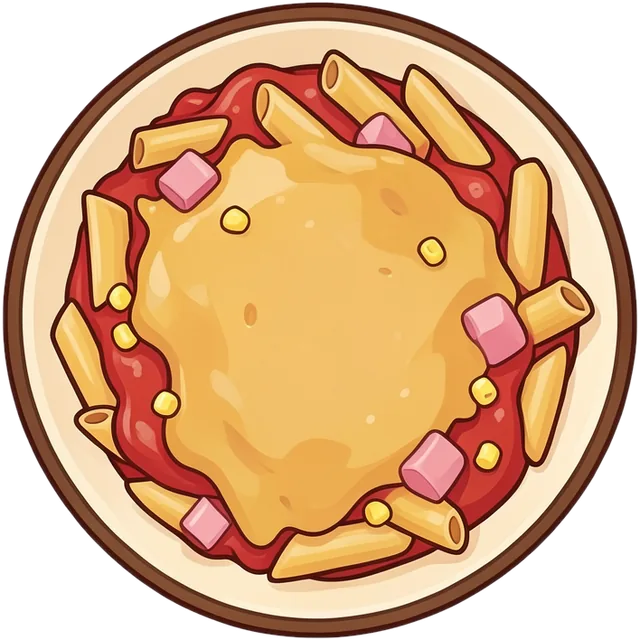
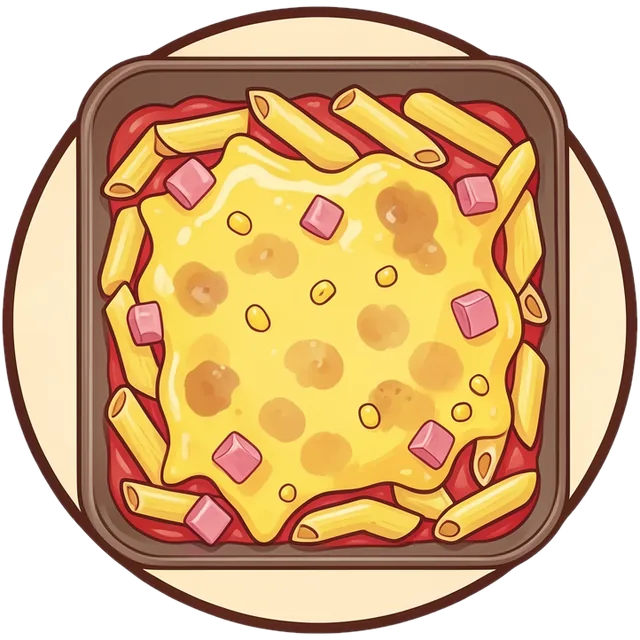
v11: fire retbilleder tegnet om, så de kan genkendes (review V2/V5)

diff --git a/sw.js b/sw.js
@@ -9,7 +9,7 @@
    Svarer nettet ikke inden for HENT_MS (4 s), kommer en opskrift (også index.json) fra cachen, og nettets svar gemmes
    til næste gang. De næste LANGSOM_MS (30 s) tager opskrifterne cachen med det samme (code review U3 og F2, 23-10). */
 const PRAEFIKS = 'kog-';
-const INDHOLD = '864b0ef75df78a9f'; // sha256 (16 tegn) af FILER — sæt den værdi, test/test-sw.js viser i fejlbeskeden
+const INDHOLD = '75c3015fe5f9363f'; // sha256 (16 tegn) af FILER — sæt den værdi, test/test-sw.js viser i fejlbeskeden
 const VERSION = PRAEFIKS + INDHOLD;
 const LYD = '7b503e0be6847e32'; // sha256 (16 tegn) af lydfilerne (lyd/*/*.mp3) — sæt den værdi, test/test-sw.js viser
 const LYD_CACHE = PRAEFIKS + 'lyd-' + LYD;

diff --git a/js/version.js b/js/version.js
@@ -4,4 +4,4 @@
 // UDGAVE_INDHOLD er filernes fingeraftryk for nummeret. test/test-version.js fejler, når en fil ændres uden et nyt
 // nummer, og skriver de to nye linjer i fejlbeskeden.
 export const UDGAVE = 'v11 · 17-11-2026';
-export const UDGAVE_INDHOLD = 'v11:d07ba33618fbc91b';
+export const UDGAVE_INDHOLD = 'v11:ec9bd25021460a37';
